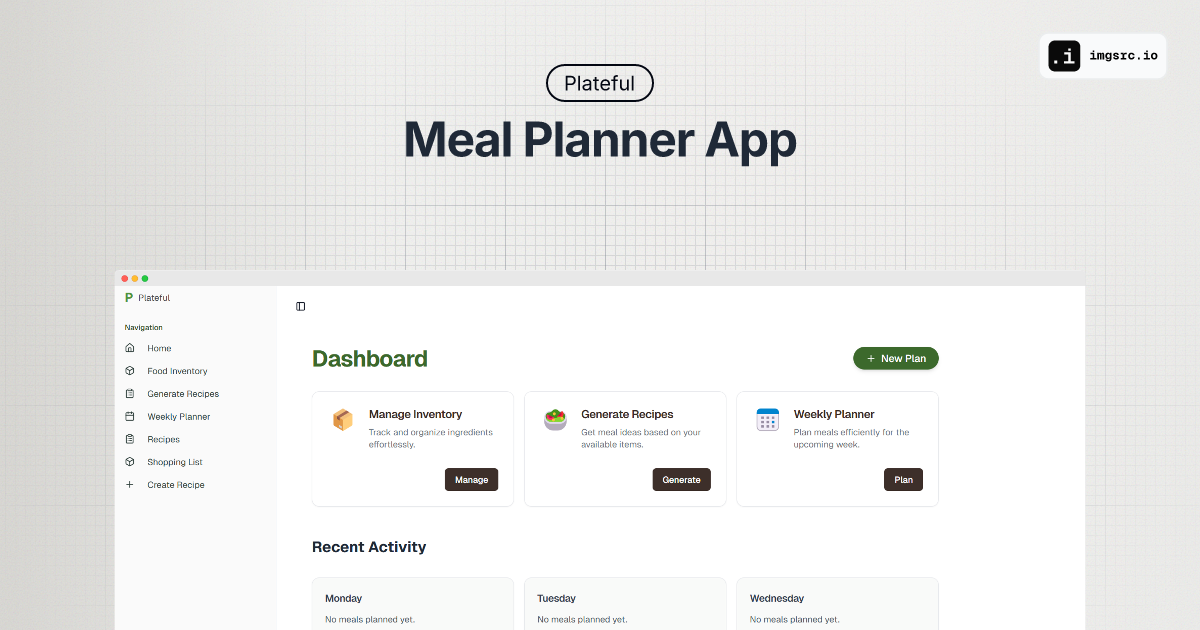
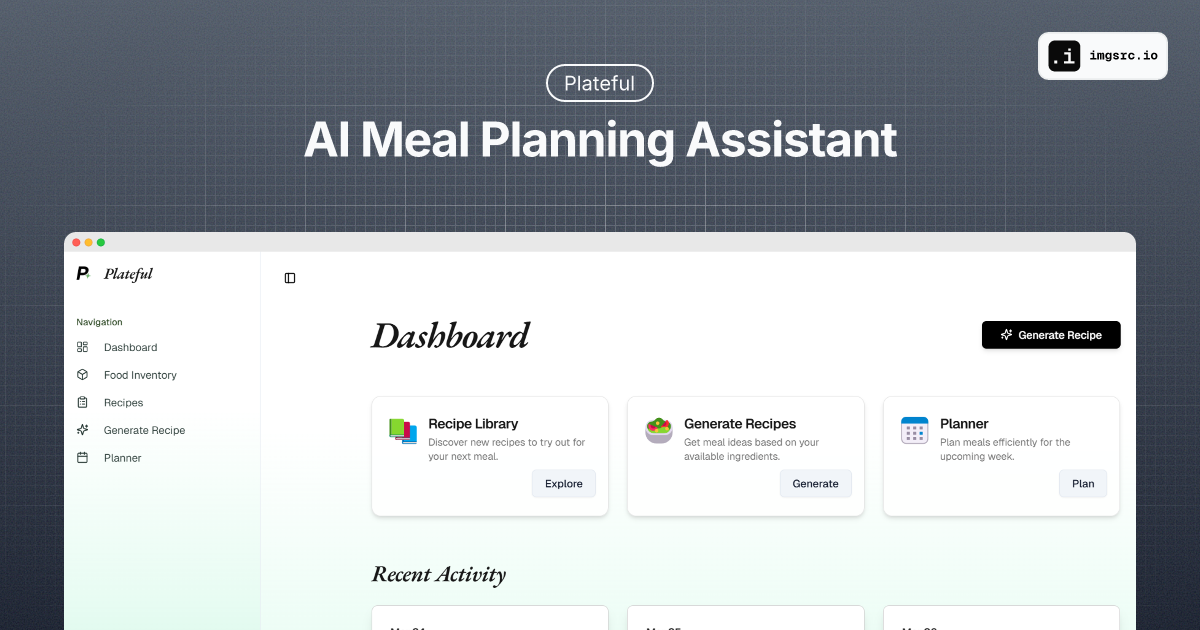
updating readme.md

diff --git a/README.md b/README.md
@@ -6,128 +6,139 @@
   <img src="/public/featuredimg.png" alt="Featured Image"  />
 </a>
 
-Plateful is a **meal planning web application** designed to help users efficiently **manage their food inventory, generate recipes**, and **plan weekly meals**. The app provides a **seamless and intuitive UI** for effortless meal planning, ensuring users can make the most out of their available ingredients.
+Plateful is a **meal planning web application** that uses **AI (Claude + Hugging Face)** and public recipe data to help users efficiently **manage their food inventory**, **generate recipes**, and **plan weekly meals**. The app offers a **seamless and intuitive UI** for organizing meals around available ingredients, making food planning more intelligent, personalized, and time-efficient.
 
 ## Features
 
-- 🥗 **Generate Recipes** based on available ingredients
-- 📦 **Manage Inventory** to keep track of stored food items
-- 📅 **Weekly Meal Planner** for structuring meals in advance
-- 📊 **User-Friendly Dashboard** with recent activity tracking
+- 🥗 **Generate Recipes** using Claude + Hugging Face (AI) or Spoonacular's public recipe database
+- 📦 **Manage Pantry Inventory** with ingredient tracking, categorization, and real-time updates
+- 📅 **Weekly Meal Planner** with drag-to-schedule features and calendar-based navigation
+- 🔁 **Debounced & Cached API Requests** to prevent rate limits and optimize performance
+- 🔒 **Secure API Integration** with server-only handling for Claude, Hugging Face, and Spoonacular keys
+- 🧠 **Modular State Management** with scoped React Context providers
+- 🧾 **Clean Markdown Recipe Rendering** via `react-markdown`, `remark-gfm`, and `rehype-sanitize`
+- 📊 **User-Friendly Dashboard** with recent activity tracking and streamlined navigation
 
 ## Tech Stack
 
-- **Framework:** Next.js (with TypeScript)
+- **Framework:** Next.js 15 (with TypeScript)
 - **Routing:** Next.js App Router
-- **State Management:** React Context API
+- **State Management:** React Context API (modular, scoped)
 - **Styling:** Tailwind CSS
 - **UI Components:** ShadCN/UI
 - **Deployment:** Vercel
+- **AI Services:** Anthropic Claude, Hugging Face Inference API
+- **Data APIs:** Spoonacular API
+- **Markdown Rendering:** react-markdown, remark-gfm, rehype-sanitize
 
 ## Project Structure
 
-```
+```bash
 plateful/
-│── app/                     # Next.js App Router directory
-│   ├── layout.tsx           # Root layout for shared structure
-│   ├── not-found.tsx        # 404 page handling
+├── app/                     # App Router directory
+│   ├── layout.tsx           # Root layout
 │   ├── page.tsx             # Home page
-│   │
-│   ├── api/                 # API routes (server functions)
-│   │   ├── recipes/route.ts # Recipes API endpoint
-│   │   ├── (other API routes)
-│   │
-│   ├── create-recipe/page.tsx     # Create a new recipe
-│   ├── generate-recipe/page.tsx   # Generate a recipe
-│   ├── inventory/page.tsx         # Inventory management
-│   ├── recipes/page.tsx           # Recipes listing
-│   ├── shopping-list/page.tsx     # Shopping list management
-│   ├── weekly-planner/page.tsx    # Weekly meal planner
+│   ├── not-found.tsx        # 404 page
+│   ├── api/                 # Server-side API handlers
+│   │   ├── recipes/route.ts
+│   │   └── ...
+│   ├── create-recipe/page.tsx
+│   ├── generate-recipe/page.tsx
+│   ├── inventory/page.tsx
+│   ├── recipes/page.tsx
+│   ├── shopping-list/page.tsx
+│   └── weekly-planner/page.tsx
 │
-│── components/              # Shared reusable UI components
+├── components/              # Shared UI components
 │
-│── context/                 # Context API state management
-│   ├── AppContext.tsx       # Global state provider
+├── context/                 # Modular React Contexts
+│   ├── InventoryContext.tsx
+│   ├── CalendarContext.tsx
+│   ├── MealPlannerContext.tsx
 │
-│── hooks/                   # Custom React hooks
-│   ├── useInventory.ts      # Inventory-related logic
-│   ├── useRecipes.ts        # Fetching and handling recipes
+├── hooks/                   # Custom hooks
+│   ├── useRecipes.ts
+│   └── useRecipeDetails.ts
 │
-│── lib/                     # Utility functions & API helpers
-│   ├── api.ts               # Global fetch helper
-│   ├── utils.ts             # General utility functions
+├── lib/                     # Helpers
+│   ├── api.ts
+│   └── utils.ts
 │
-│── public/                  # Static assets
-│   ├── featuredimg.png      # Featured image
-│   ├── logo.png             # App logo
+├── public/                  # Static assets
+│   ├── logo.png
+│   └── featuredimg.png
 │
-│── styles/                  # Global styling files
-│   ├── global.css           # Tailwind styles
+├── styles/                  # Tailwind global styles
+│   └── global.css
 │
-│── types/                   # TypeScript type definitions
+├── types/                   # TypeScript types
 │
-│── ui/                      # ShadCN/UI components
-│   ├── button.tsx           # Button component
-│   ├── input.tsx            # Input component
-│   ├── select.tsx           # Select dropdown
-│   ├── dialog.tsx           # Modal/dialog component
+├── ui/                      # ShadCN-styled components
+│   ├── button.tsx
+│   ├── input.tsx
+│   ├── dialog.tsx
+│   ├── select.tsx
+│   ├── Title.tsx
+│   ├── SaveToPlannerModal.tsx
+│   ├── PlannerCell.tsx
+│   └── RecentActivityCard.tsx
 │
-│── .gitignore               # Git ignored files
-│── eslint.config.js         # Linting configuration
-│── next-env.d.ts            # Next.js TypeScript setup
-│── package.json             # Project dependencies
-│── tailwind.config.js       # Tailwind configuration
-│── tsconfig.json            # TypeScript configuration
-│── README.md                # Project documentation
+├── .gitignore
+├── eslint.config.js
+├── next-env.d.ts
+├── next.config.js
+├── package.json
+├── tailwind.config.js
+├── tsconfig.json
+└── README.md
 ```
 
 ## Getting Started
 
 ### 1. Clone the Repository
 
-```sh
+```bash
 git clone https://github.com/oguzhanozenc/plateful.git
 cd plateful
 ```
 
 ### 2. Install Dependencies
 
-```sh
+```bash
 yarn install
 ```
 
 ### 3. Start the Development Server
 
-```sh
+```bash
 yarn dev
 ```
 
-Runs the app in development mode. Open `http://localhost:3000/` in your browser.
+Open your browser at `http://localhost:3000/`.
 
 ## Deployment to Vercel
 
 ### 1. Build for Production
 
-```sh
+```bash
 yarn build
 ```
 
 ### 2. Deploy to Vercel
 
 - Link your GitHub repository to Vercel
-- Set **build command** to `yarn build`
-- Deploy your site at `https://platefulapp.vercel.app/`
+- Set **Build Command**: `yarn build`
+- Set **Output Directory**: `.next`
+- Deploy at: `https://platefulapp.vercel.app/`
 
 ## Contributing
 
-Contributions are welcome! If you'd like to improve Plateful:
-
 1. Fork the repository
-2. Create a feature branch (`git checkout -b feature-branch`)
+2. Create a branch (`git checkout -b feature-branch`)
 3. Commit your changes (`git commit -m "Add feature"`)
-4. Push to the branch (`git push origin feature-branch`)
+4. Push to GitHub (`git push origin feature-branch`)
 5. Create a Pull Request
 
 ## License
 
-MIT License © 2025 Oguzhan Ozenc.
+MIT License © 2025 Oguzhan Ozenc
